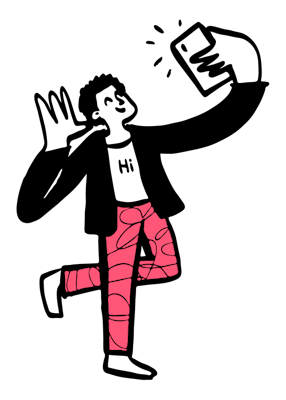
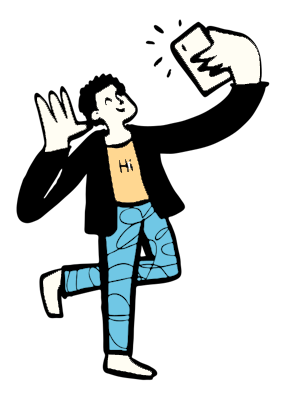
feat(landing): curve wraps the buttons, proximity on more text, refreshed selfie
Multiple user asks in one pass:

CurvedLoop wraps the CTAs
- Path swapped from wave (Q + T + T) back to a single smile arc:
  M-100,30 Q 720,30+curveAmount 1540,30. Dips down in the middle so
  text follows the curve INTO the button area.
- Moved in JSX from below the hero to ABOVE the CTAs.
- Container breaks out to full viewport width (calc 50% - 50vw on
  margins) so the curve still spans edge to edge while the rest of the
  hero stays inside the centered column.
- marginBottom: -40px pulls the buttons up into the curve's lowest
  point — the smile visually "almost wraps" them.
- curveAmount bumped 140 → 180 for a deeper dip.
- pointer-events: none on the wrapper so the curve doesn't block the
  buttons, but pointer-events: auto on the inner SVG so it's still
  draggable.

VariableProximity expanded to more text
- Hero subtitle paragraph now wrapped — letters fatten as cursor
  approaches. Fresh container ref (heroSubRef), radius 160, gaussian.
- Final CTA subtitle paragraph wrapped — same treatment with finalSubRef.
- Existing testimonial signature: weight delta widened from 500..800
  to 400..800 (full EB Garamond variable range) and radius bumped
  110 → 180 for a more discoverable hover area.

Selfie sticker refreshed
- Re-copied user's updated Open Doodles - Selfie.png from Documents.
  New version has aqua/blue patterned pants + honey "Hi" shirt —
  matches the palette without recoloring.

diff --git a/src/pages/LandingPageNew.tsx b/src/pages/LandingPageNew.tsx
@@ -821,6 +821,8 @@ export default function LandingPageNew() {
   const [videoOpen, setVideoOpen] = useState(false);
   const scrollRoot = useRef<HTMLDivElement | null>(null);
   const proximityContainerRef = useRef<HTMLDivElement | null>(null);
+  const heroSubRef = useRef<HTMLDivElement | null>(null);
+  const finalSubRef = useRef<HTMLDivElement | null>(null);
 
   // ESC closes the video modal
   useEffect(() => {
@@ -1100,7 +1102,8 @@ export default function LandingPageNew() {
             </span>
           </h1>
 
-          <p
+          <div
+            ref={heroSubRef}
             data-reveal="3"
             style={{
               fontSize: "clamp(15px, 1.6vw, 19px)",
@@ -1108,19 +1111,53 @@ export default function LandingPageNew() {
               maxWidth: 580,
               margin: "0 auto 40px",
               lineHeight: 1.55,
+              position: "relative",
             }}
           >
-            Connecta plans your next 30 days of content before you open the app. Hooks that
-            land, posts that book — strategy, scripts, and schedule done for you.
-          </p>
+            <VariableProximity
+              label="Connecta plans your next 30 days of content before you open the app. Hooks that land, posts that book — strategy, scripts, and schedule done for you."
+              fromFontVariationSettings="'wght' 400"
+              toFontVariationSettings="'wght' 800"
+              containerRef={heroSubRef}
+              radius={160}
+              falloff="gaussian"
+            />
+          </div>
 
+          {/* CurvedLoop — sits right above the buttons, smile-arc dips down to "wrap" them */}
           <div
             data-reveal="4"
+            style={{
+              position: "relative",
+              zIndex: 0,
+              width: "100vw",
+              marginLeft: "calc(50% - 50vw)",
+              marginRight: "calc(50% - 50vw)",
+              padding: "0 4%",
+              marginTop: 12,
+              marginBottom: -40,
+              pointerEvents: "none",
+            }}
+          >
+            <div style={{ pointerEvents: "auto" }}>
+              <CurvedLoop
+                marqueeText="STRATEGY ✦ SCRIPTS ✦ FIND VIRAL REELS ✦ SCHEDULE ✦ EDITING QUEUE ✦ GO VIRAL ✦ GET CLIENTS ✦ AI COMPANION ✦ "
+                speed={1.1}
+                curveAmount={180}
+                interactive
+              />
+            </div>
+          </div>
+
+          <div
+            data-reveal="5"
             style={{
               display: "flex",
               gap: 12,
               justifyContent: "center",
               flexWrap: "wrap",
+              position: "relative",
+              zIndex: 2,
             }}
           >
             <Link to="/scripts" className="btn btn-aqua btn-large">
@@ -1136,7 +1173,7 @@ export default function LandingPageNew() {
           </div>
 
           <div
-            data-reveal="5"
+            data-reveal="6"
             style={{
               marginTop: 18,
               fontSize: 12.5,
@@ -1146,25 +1183,6 @@ export default function LandingPageNew() {
           >
             Free to try · No credit card · Cancel anytime
           </div>
-        </div>
-
-        {/* CurvedLoop — wave-shaped brand marquee with breathing room from viewport edges */}
-        <div
-          data-reveal="6"
-          style={{
-            position: "relative",
-            zIndex: 1,
-            width: "100%",
-            margin: "70px 0 0",
-            padding: "0 5%",
-          }}
-        >
-          <CurvedLoop
-            marqueeText="STRATEGY ✦ SCRIPTS ✦ FIND VIRAL REELS ✦ SCHEDULE ✦ EDITING QUEUE ✦ GO VIRAL ✦ GET CLIENTS ✦ AI COMPANION ✦ "
-            speed={1.1}
-            curveAmount={140}
-            interactive
-          />
         </div>
       </section>
 
@@ -1762,10 +1780,10 @@ export default function LandingPageNew() {
               <div style={{ fontSize: 17, color: "var(--bone)" }}>
                 <VariableProximity
                   label="Aria Wells"
-                  fromFontVariationSettings="'wght' 500"
+                  fromFontVariationSettings="'wght' 400"
                   toFontVariationSettings="'wght' 800"
                   containerRef={proximityContainerRef}
-                  radius={110}
+                  radius={180}
                   falloff="gaussian"
                   className="serif"
                   style={{ fontSize: 17, color: "var(--bone)" }}
@@ -1837,18 +1855,26 @@ export default function LandingPageNew() {
             </span>
           </h2>
 
-          <p
+          <div
+            ref={finalSubRef}
             style={{
               fontSize: 18,
               color: "rgba(10,14,18,0.65)",
               maxWidth: 560,
               margin: "0 auto 36px",
               lineHeight: 1.55,
+              position: "relative",
             }}
           >
-            No credit card. Bring your existing chaos — Connecta will fold it neatly into a
-            30-day plan within five minutes.
-          </p>
+            <VariableProximity
+              label="No credit card. Bring your existing chaos — Connecta will fold it neatly into a 30-day plan within five minutes."
+              fromFontVariationSettings="'wght' 400"
+              toFontVariationSettings="'wght' 800"
+              containerRef={finalSubRef}
+              radius={160}
+              falloff="gaussian"
+            />
+          </div>
           <Link to="/scripts" className="btn btn-honey btn-large">
             Get started <ArrowRight size={16} />
           </Link>

diff --git a/src/components/landing/CurvedLoop.tsx b/src/components/landing/CurvedLoop.tsx
@@ -30,9 +30,9 @@ export default function CurvedLoop({
   const [offset, setOffset] = useState(0);
   const uid = useId();
   const pathId = `curve-${uid.replace(/:/g, "")}`;
-  // Wave path with three undulations — far more interesting than a single arc.
-  // Q sets up the first hump, two T commands mirror it for continuous waves.
-  const pathD = `M-100,40 Q 280,${40 + curveAmount * 0.6} 600,40 T 1080,40 T 1540,40`;
+  // Single smile arc — dips down in the middle so text can "wrap" UI elements
+  // placed directly below it. Wide ends, deep middle.
+  const pathD = `M-100,30 Q 720,${30 + curveAmount} 1540,30`;
 
   const dragRef = useRef(false);
   const lastXRef = useRef(0);
